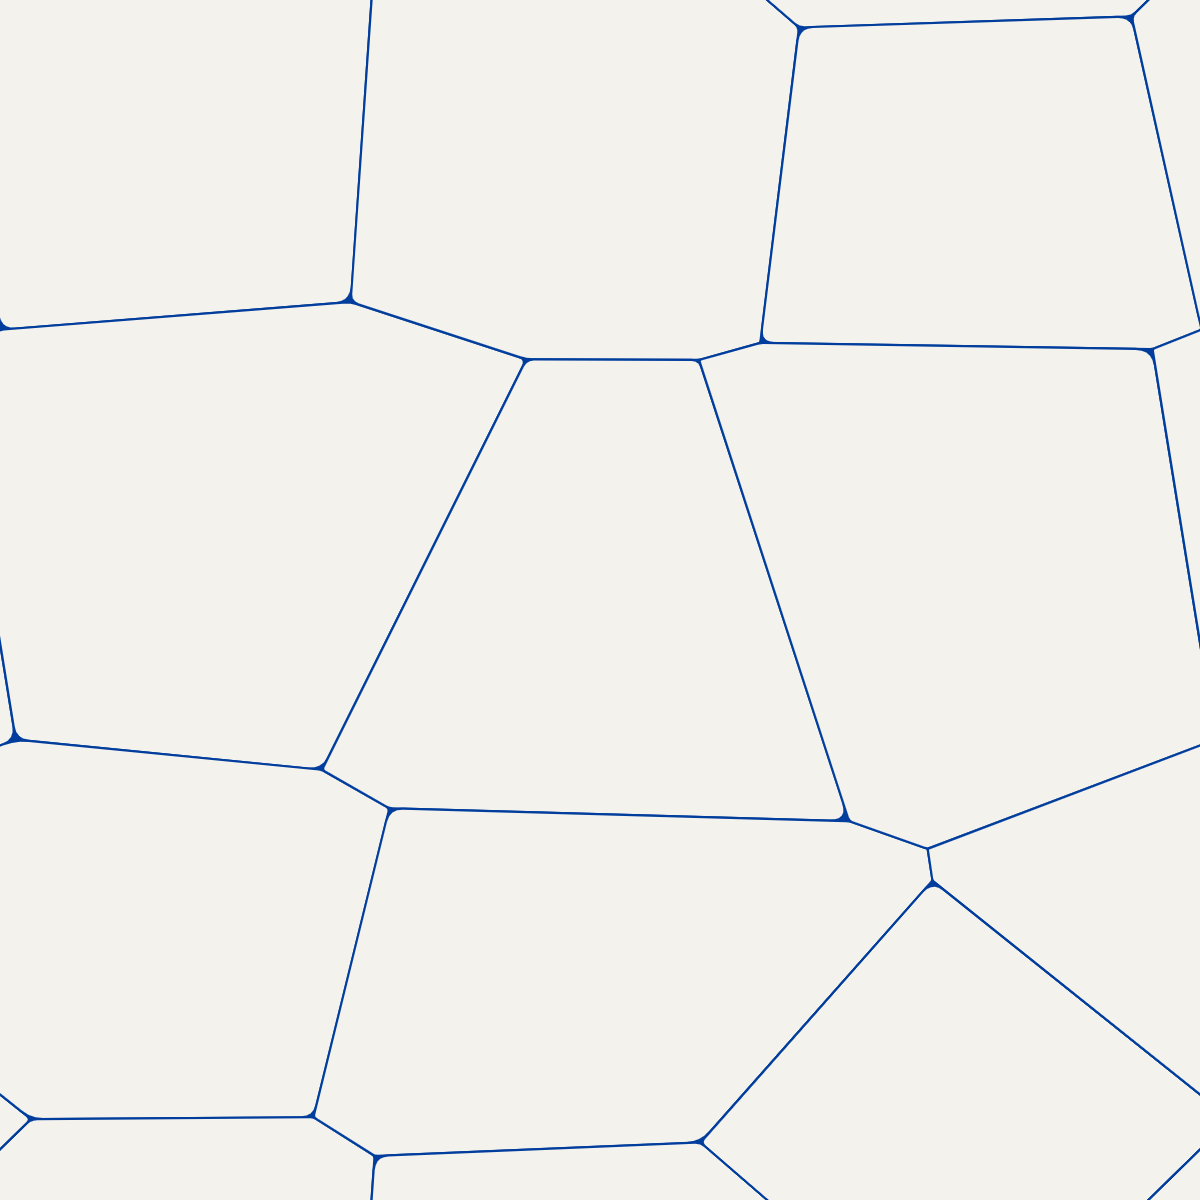
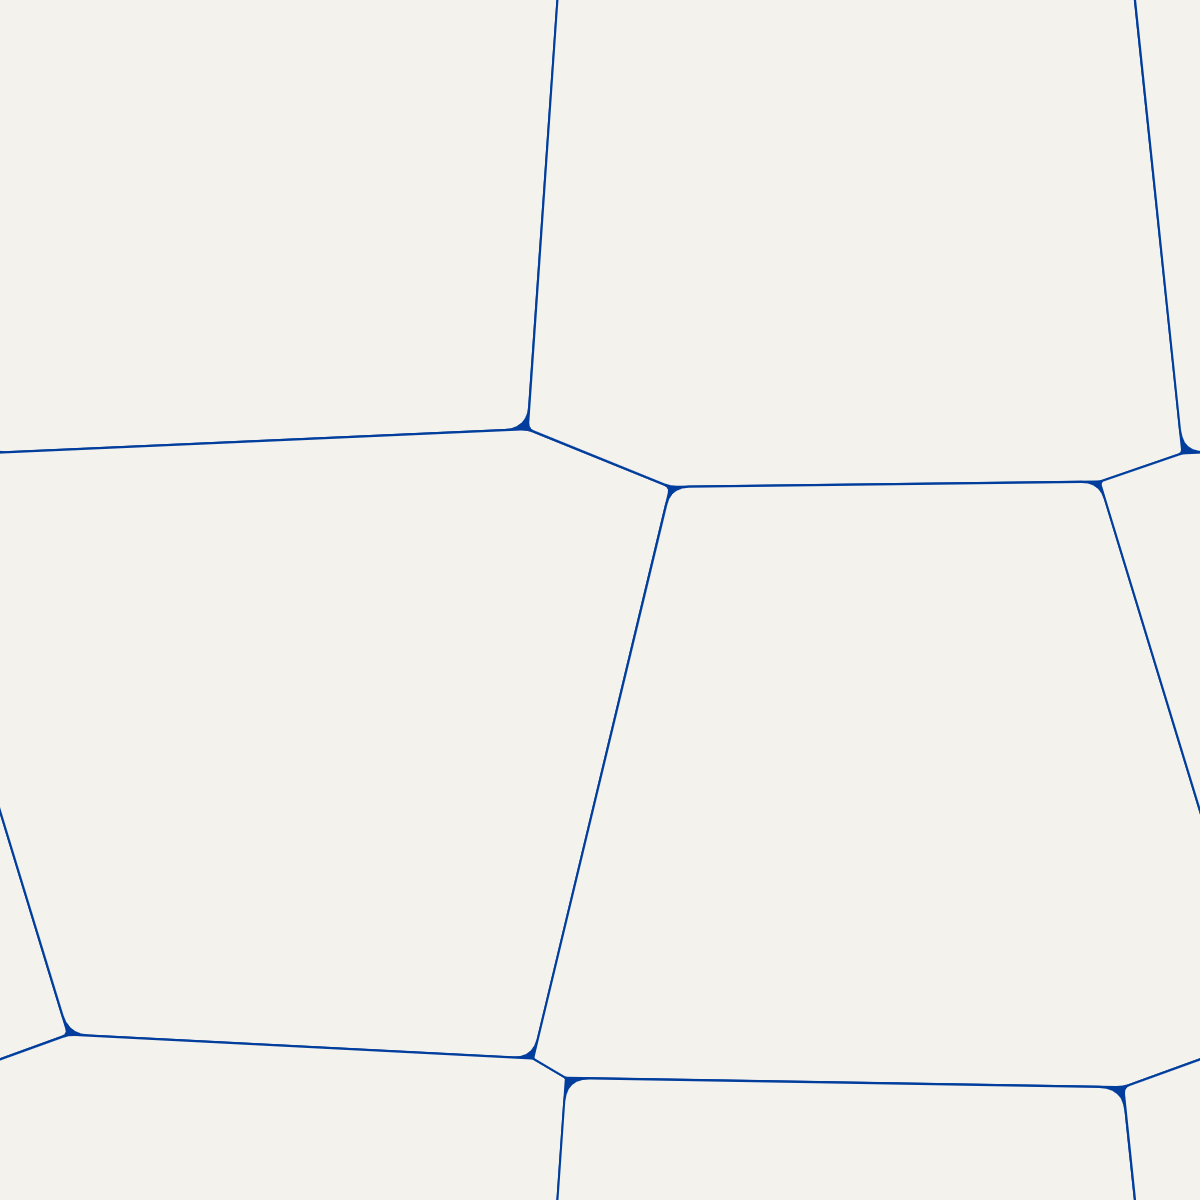
refactor(voronoi): relax M floor 3→2 across Louro/Alho/Pimenta
The audit flagged that the M=3 floor turned every zoom above ~250x into
a dead range (Louro/Alho/Pimenta all clamped to the same 3×3 grid).

Lowering the floor to M=2 gives the high-zoom range distinct character.
For Louro at density=9:
  100x  → M = 4  (16 cells)
  300x  → M = 3  ( 9 cells, curated default)
  800x  → M = 2  ( 4 cells) ← previously clamped to 3
  1200x → M = 2  ( 4 cells) ← previously clamped to 3

The slider now spans 3 distinct visual states across the zoom range
instead of 2. M=1 (single cell = whole canvas) is still rejected as
degenerate.

Sites changed (4 Voronoi callsites + 2 Pimenta callsites):
  - renderLouroMicroscopeGrid       Math.max(3,…) → Math.max(2,…)
  - generateLouroSVGPatternString          (same)
  - renderGarlicMicroscopeGrid             (same)
  - generateGarlicSVGPatternString         (same)
  - renderPimentaMicroscopeGrid     keeps cap=11, floor 3→2
  - generatePimentaSVGPatternString        (same)

Snapshot diff at curated defaults (seed=42):
  identical: 10 (Voronoi spices natively yield M=3 at default — floor
                 is never engaged at the curated range)
  diverged:   2 (Sal — pre-existing cross-session non-determinism,
                 unrelated to this change)

Calibration updated:
  - calibration/louro-800x.png + louro-1200x.png re-captured to show
    the new 2×2 = 4-cell rendering
  - VISUAL_CALIBRATION.md: Louro 800x/1200x sections updated +
    rule R6 changed from "M floor = 3" to "M floor = 2"

diff --git a/src/utils/patternRenderer.ts b/src/utils/patternRenderer.ts
@@ -676,7 +676,7 @@ export function renderLouroMicroscopeGrid(
   // Higher zoom → fewer/larger cells (zoomReduces=true) → microscopy intuition.
   const density = config.density ?? 40;
   const totalCount = targetCount(density, W * H, SPICE_DENSITY_FACTORS.louro, config.zoom ?? 100, true);
-  const M = Math.max(3, Math.min(22, Math.round(Math.sqrt(totalCount))));
+  const M = Math.max(2, Math.min(22, Math.round(Math.sqrt(totalCount))));
 
   const rng = new SeededRandom('louro_microscope_voronoi_' + Math.round(config.layoutSeed ?? 1));
   const jittersX: number[] = [];
@@ -766,7 +766,7 @@ function generateLouroSVGPatternString(config: PatternConfig, width: number, hei
   // Mirrors canvas density semantics exactly — same factor, same formula.
   const density = config.density ?? 40;
   const totalCount = targetCount(density, width * height, SPICE_DENSITY_FACTORS.louro, config.zoom ?? 100, true);
-  const M = Math.max(3, Math.min(22, Math.round(Math.sqrt(totalCount))));
+  const M = Math.max(2, Math.min(22, Math.round(Math.sqrt(totalCount))));
 
   const rng = new SeededRandom('louro_microscope_voronoi_' + Math.round(config.layoutSeed ?? 1));
   const jittersX: number[] = [];
@@ -939,7 +939,7 @@ export function renderGarlicMicroscopeGrid(
   // SPICE_DENSITY_FACTORS.alho = 1.16 → M=3 at curated default (zoom=180, density=14).
   const density = config.density ?? 40;
   const totalCount = targetCount(density, W * H, SPICE_DENSITY_FACTORS.alho, config.zoom ?? 100, true);
-  const M = Math.max(3, Math.min(22, Math.round(Math.sqrt(totalCount))));
+  const M = Math.max(2, Math.min(22, Math.round(Math.sqrt(totalCount))));
 
   const rng = new SeededRandom('garlic_microscope_voronoi_' + Math.round(config.layoutSeed ?? 1));
   const jittersX: number[] = [];
@@ -1032,7 +1032,7 @@ function generateGarlicSVGPatternString(config: PatternConfig, width: number, he
   // Mirrors canvas exactly — see renderGarlicMicroscopeGrid above.
   const density = config.density ?? 40;
   const totalCount = targetCount(density, width * height, SPICE_DENSITY_FACTORS.alho, config.zoom ?? 100, true);
-  const M = Math.max(3, Math.min(22, Math.round(Math.sqrt(totalCount))));
+  const M = Math.max(2, Math.min(22, Math.round(Math.sqrt(totalCount))));
 
   const rng = new SeededRandom('garlic_microscope_voronoi_' + Math.round(config.layoutSeed ?? 1));
   const jittersX: number[] = [];
@@ -1245,7 +1245,7 @@ export function renderPimentaMicroscopeGrid(
   // macro grid earlier prevents the canvas from drowning in tiny cells.
   const density = config.density ?? 40;
   const totalCount = targetCount(density, W * H, SPICE_DENSITY_FACTORS.pimenta, config.zoom ?? 100, true);
-  const M = Math.max(3, Math.min(11, Math.round(Math.sqrt(totalCount))));
+  const M = Math.max(2, Math.min(11, Math.round(Math.sqrt(totalCount))));
   const roundedness = config.voronoiRoundedness ?? 42;
   const rng = new SeededRandom('pimenta_multiscale_v2_' + Math.round(config.layoutSeed ?? 1));
 
@@ -2043,7 +2043,7 @@ function generatePimentaSVGPatternString(config: PatternConfig, width: number, h
   // Mirrors canvas exactly — see renderPimentaMicroscopeGrid above.
   const density = config.density ?? 40;
   const totalCount = targetCount(density, W * H, SPICE_DENSITY_FACTORS.pimenta, config.zoom ?? 100, true);
-  const M = Math.max(3, Math.min(11, Math.round(Math.sqrt(totalCount))));
+  const M = Math.max(2, Math.min(11, Math.round(Math.sqrt(totalCount))));
   const roundedness = config.voronoiRoundedness ?? 42;
   const rng = new SeededRandom('pimenta_multiscale_v2_' + Math.round(config.layoutSeed ?? 1));
 

diff --git a/VISUAL_CALIBRATION.md b/VISUAL_CALIBRATION.md
@@ -63,32 +63,34 @@ Louro was chosen as the pilot because:
 
 ---
 
-### 800x  —  "macro view, floor-capped"
+### 800x  —  "macro neighborhood" (floor relaxed)
 
 ![louro-800x](calibration/louro-800x.png)
 
 | Aspect | Reading |
 |---|---|
-| Cells per side (M) | **3** (clamped — formula wants 2, floor forces 3) |
-| Cells filling viewport | identical to 300x — **byte-identical PNG** |
-| Apparent line weight | unchanged from 300x |
-| Vibe | should be "high mag — fewer larger cells" but the M=3 floor hides this |
-| ⚠ Calibration note | **slider has no visual effect between ~250x and 1200x** — the floor `Math.max(3, ...)` clamps every value to M=3. This is preserved from the legacy formula for parity, but represents dead range in the slider. |
+| Cells per side (M) | **2** (formula wants 2, floor=2 accepts) |
+| Cells filling viewport | 4 cells visible (2×2 grid with seamless wrap) |
+| Avg cell width | ~600 px (half of canvas) |
+| Apparent line weight | 2.2 px absolute |
+| Vibe | "high mag — looking at one cell neighborhood, ~4 cells around it" |
+| Use case | macro hero frames, single-cell-focus tiles |
 
-**Design decision pending:** consider lowering the M floor from 3 to 2 (4 cells total) in a future commit to give 800x+ its own distinct character. Documenting here so the choice is intentional, not accidental.
+**Floor change history:** previously this stop was clamped to M=3 (identical to 300x). The floor was relaxed from 3 → 2 to give 800x+ its own distinct character. The slider now has 3 visual states across the range (M=4 at 100x → M=3 at 300x → M=2 at 800x+).
 
 ---
 
-### 1200x  —  "absolute close-up, also floor-capped"
+### 1200x  —  "absolute close-up"
 
 ![louro-1200x](calibration/louro-1200x.png)
 
 | Aspect | Reading |
 |---|---|
-| Cells per side (M) | **3** (clamped — formula wants 1, floor forces 3) |
-| PNG bytes | identical to 300x and 800x |
-| ⚠ Calibration note | same floor issue — slider value distinct, output identical |
-| Apparent line weight | 2.2 px (this is where the OLD code would have rendered ~26 px strokes; the stroke fix is most visible here) |
+| Cells per side (M) | **2** (formula wants 1, floor=2 forces 2) |
+| PNG bytes | identical to 800x (both M=2) — slider still has a small dead range above ~600x |
+| Apparent line weight | 2.2 px absolute |
+| Vibe | "extreme objective — only a few cells visible, each big and crisp" |
+| ⚠ Calibration note | the M=1 case (single cell = whole canvas) is rejected as too degenerate. M=2 is the practical minimum. |
 
 **Before the stroke fix:** at 1200x the legacy formula computed `lineWidth × 1.5 × (1200/100) = 39.6 px` (clamped to a wallthick of ~40 px). Cells became thick orange paint regions with tiny cream interiors. **After the fix:** crisp 2.2 px lines, every value of zoom looks like microscopy.
 
@@ -105,7 +107,7 @@ These observations promote to engine-wide rules — Alho and Pimenta calibration
 | **R3 — stroke is absolute pixels** | The same `lineWidth=2.2` value produces a 2.2 px line at every zoom level. No multiplication by `zoom/100`. |
 | **R4 — theme is pure inversion** | Light↔dark swaps `bg ↔ shape` colors only. Stroke width, geometry, count are identical between themes. |
 | **R5 — anisotropy is intrinsic** | The 1.6× elongation is a Louro identity constant. `rotation` rotates the axis, but never the magnitude. |
-| **R6 — M floor = 3** | All Voronoi spices clamp to a minimum of 3 cells per side, producing a 3×3 grid. Below this the pattern is unreadable. (Possibly relaxable — see 800x note above.) |
+| **R6 — M floor = 2** | All Voronoi spices clamp to a minimum of 2 cells per side, producing a 2×2 grid. M=1 (single cell) is rejected as degenerate. Was previously 3; relaxed to give the 800x+ zoom range distinct character. |
 | **R7 — M ceiling = 22** | Above 484 total cells (M=22), the canvas becomes a fine mesh — visual identity collapses into "static noise" rather than "cellular tissue". |
 
 ---
